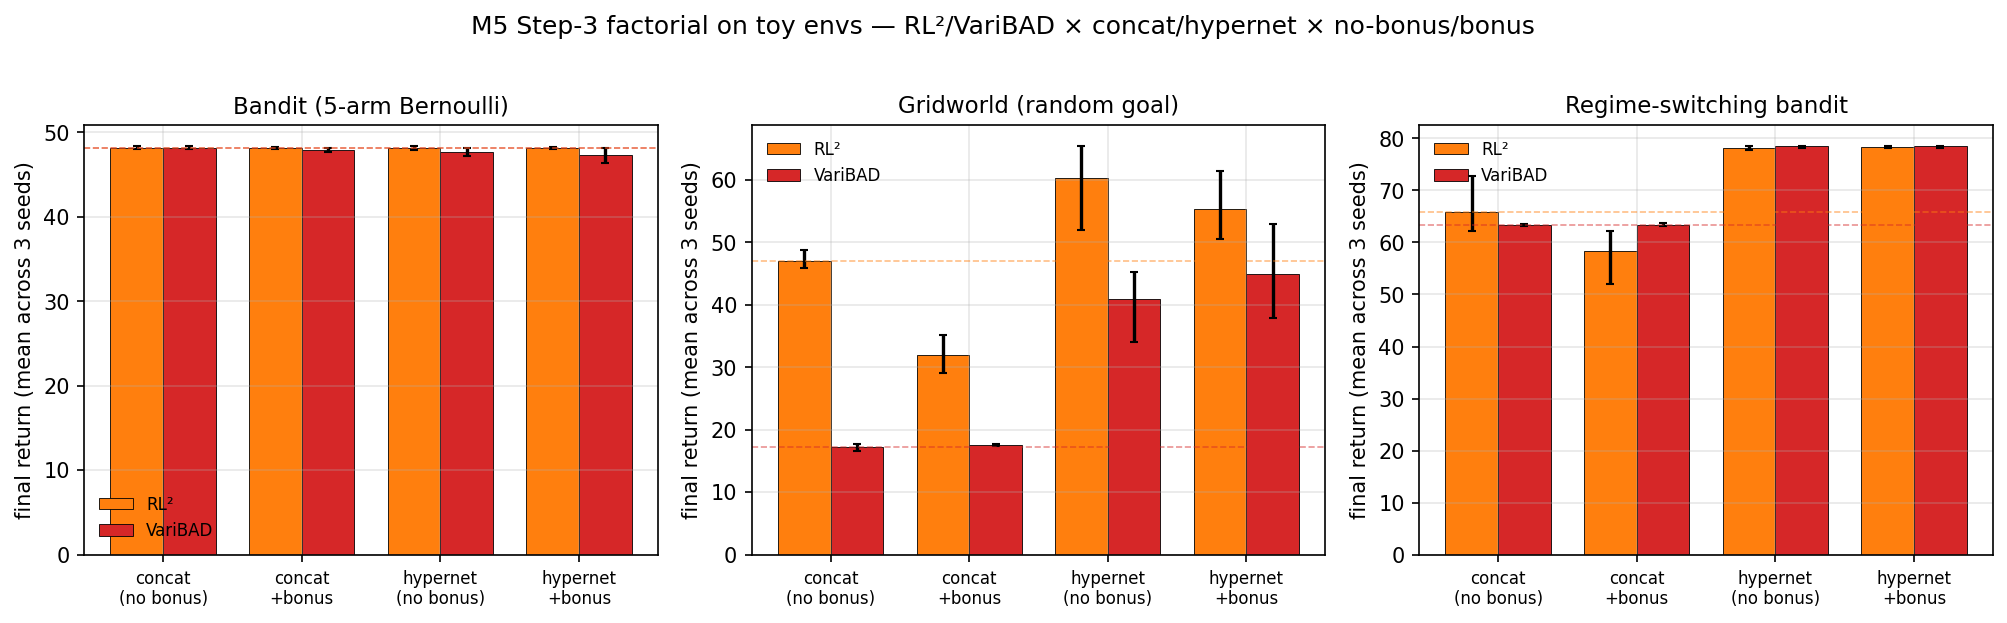
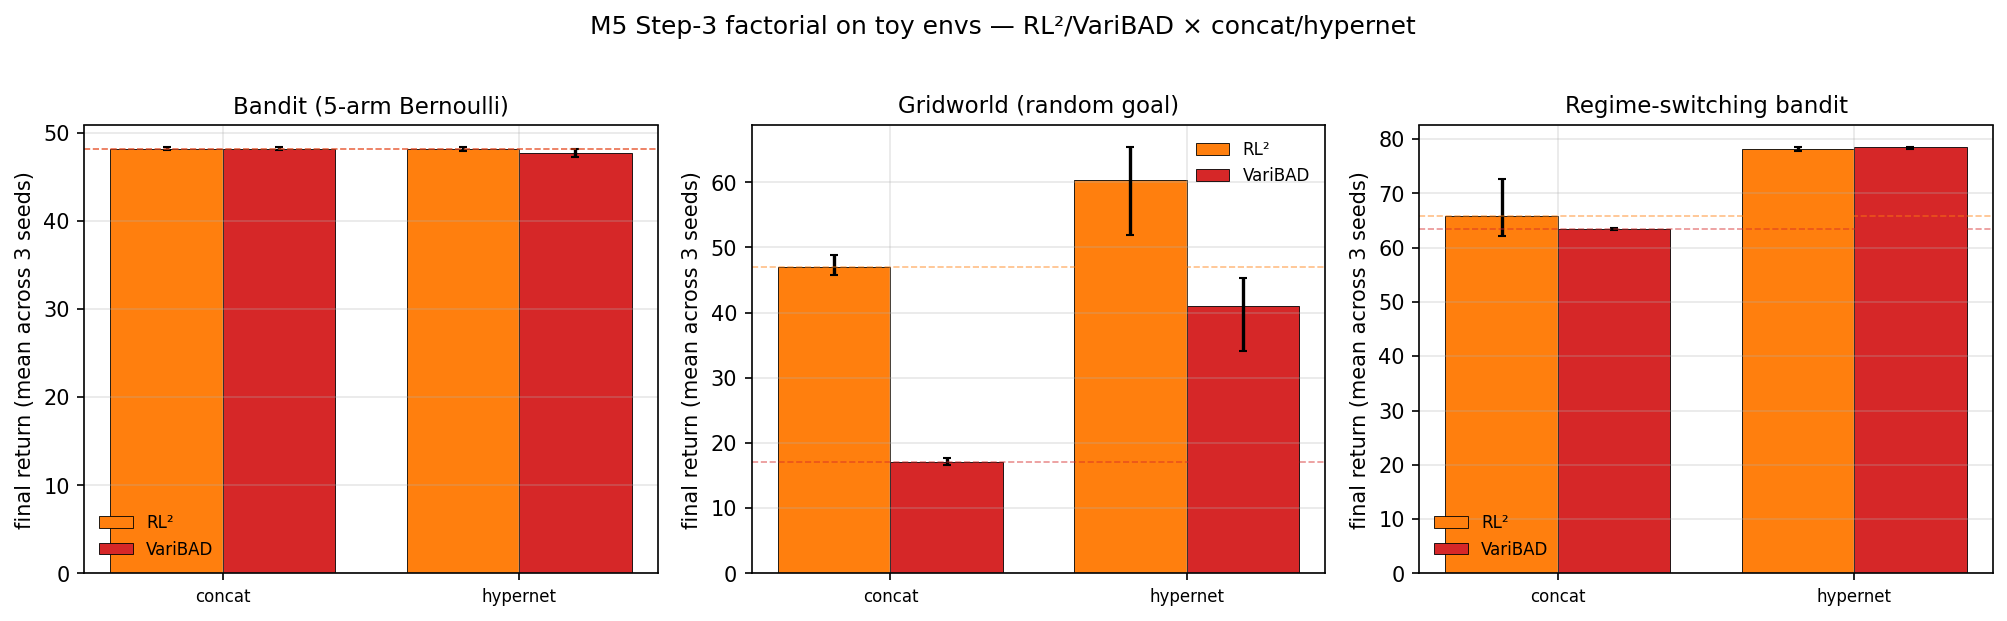
M5: remove exploration_bonus axis (skipped from RQ2 factorial)
Decision: drop the exploration_bonus ablation axis from the M5 ladder.
The toy factorial showed bonus@coef=0.1 hurt RL² and was inert on
VariBAD due to miscalibration; rather than spend compute tuning the
coefficient on a structured toy, the M5 factorial now reduces to the
2-axis grid (RL²/VariBAD × concat/hypernet) which is enough to answer
RQ2's main integration question.

Removed:
  - agents/modules/exploration_bonus.py
  - bonus fields (exploration_bonus, _coef, _window) on RL2Agent and
    VariBADAgent. belief_key kept — used by the posterior-quality probe.
  - bonus-computation branch in training/train.py:_make_iter_step.
  - 4 bonus-related smoke configs:
    m5_factorial_smoke_{rl2,varibad}_{bonus,both}.yaml
  - Orphan figures/m5/ directory (replaced by figures/milestones/M5/).

Updated:
  - scripts/m5_factorial_toys.py — VARIANTS reduced to 2 (concat, hypernet);
    12 runs instead of 24 if re-run fresh.
  - plotting/m5_plots.py:plot_factorial_toys — _VARIANT_ORDER reduced to
    no-bonus only; backward-compatible with existing 24-config JSON
    (bonus rows are ignored). Title updated.

Existing on-disk data:
  - results/m5_factorial_*_bonus/ result directories preserved on disk
    for audit (the experiments did run); not regenerated, not plotted.
  - stats_M5_factorial_toys.json keeps all 24 rows; plot reads only the
    8 no-bonus rows (4 method×env × 2 integration variants).

Note: docs/research-questions.md and docs/implementation.md still
[…]

diff --git a/scripts/m5_factorial_toys.py b/scripts/m5_factorial_toys.py
@@ -1,14 +1,14 @@
-"""M5 factorial toys: 8 variants × 3 toy envs = 24 runs.
+"""M5 factorial toys: 4 variants × 3 toy envs = 12 runs.
 
-Tests the full 2×2×2 ablation factorial — (rl2, varibad) × (concat, hypernet)
-× (no_bonus, bonus) — on the M4 toy environments (bandit, gridworld,
-regime_bandit). Templates from `experiments/configs/m4_<method>_<env>.yaml`
-provide budgets and env settings; orchestrator applies the variant overrides
-to `agent.params` and renames `experiment_name`.
+Tests the integration ablation — (rl2, varibad) × (concat, hypernet) — on
+the M4 toy environments (bandit, gridworld, regime_bandit). Templates from
+`experiments/configs/m4_<method>_<env>.yaml` provide budgets and env
+settings; orchestrator applies the integration override to `agent.params`
+and renames `experiment_name`.
 
 Pass criterion: variants should perform at parity-or-better with the M4
-baseline (concat, no_bonus). A regression vs M4 baseline indicates a wiring
-bug; gains indicate the addon is genuinely helpful on toys.
+baseline (concat). A regression indicates a wiring bug; gains indicate
+the integration addon is genuinely helpful on toys.
 
 Usage:
   uv run python -m scripts.m5_factorial_toys
@@ -35,11 +35,9 @@ CONFIG_ROOT = REPO_ROOT / "experiments" / "configs"
 METHODS = ["rl2", "varibad"]
 ENVS = ["bandit", "gridworld", "regime_bandit"]
 VARIANTS = [
-    # (integration, exploration_bonus, label)
-    ("concat",   False, "concat_nobonus"),
-    ("concat",   True,  "concat_bonus"),
-    ("hypernet", False, "hypernet_nobonus"),
-    ("hypernet", True,  "hypernet_bonus"),
+    # (integration, label)
+    ("concat",   "concat_nobonus"),
+    ("hypernet", "hypernet_nobonus"),
 ]
 
 
@@ -53,16 +51,14 @@ def _bootstrap_ci(values: list[float], n_boot: int = 10_000) -> tuple[float, flo
     return float(np.percentile(boot_means, 2.5)), float(np.percentile(boot_means, 97.5))
 
 
-def _build_factorial_config(method: str, env: str, integration: str, bonus: bool):
-    """Load m4_<method>_<env>.yaml as template, override variant fields."""
+def _build_factorial_config(method: str, env: str, integration: str):
+    """Load m4_<method>_<env>.yaml as template, override integration."""
     template_path = CONFIG_ROOT / f"m4_{method}_{env}.yaml"
     cfg = load_config(template_path)
     apply_run_mode(cfg, "full")
-    label = f"{integration}_{'bonus' if bonus else 'nobonus'}"
-    cfg.experiment_name = f"m5_factorial_{method}_{env}_{label}"
+    cfg.experiment_name = f"m5_factorial_{method}_{env}_{integration}_nobonus"
     cfg.agent.params = copy.deepcopy(cfg.agent.params)
     cfg.agent.params["integration"] = integration
-    cfg.agent.params["exploration_bonus"] = bonus
     return cfg
 
 
@@ -87,11 +83,11 @@ def main() -> int:
     stats_path = out_dir / "stats_M5_factorial_toys.json"
     summary_path = out_dir / "stats_M5_factorial_toys_run.json"
 
-    runs: list[tuple[str, str, str, bool, str]] = [
-        (method, env, integ, bonus, f"m5_factorial_{method}_{env}_{integ}_{'bonus' if bonus else 'nobonus'}")
+    runs: list[tuple[str, str, str, str]] = [
+        (method, env, integ, f"m5_factorial_{method}_{env}_{integ}_nobonus")
         for method in METHODS
         for env in ENVS
-        for integ, bonus, _ in VARIANTS
+        for integ, _ in VARIANTS
     ]
     n = len(runs)
     print(f"[m5_factorial_toys] start: {n} runs at full M4 budget", flush=True)
@@ -100,14 +96,13 @@ def main() -> int:
     config_results: list[dict[str, Any]] = []
     failed: list[str] = []
 
-    for i, (method, env, integration, bonus, label) in enumerate(runs, start=1):
+    for i, (method, env, integration, label) in enumerate(runs, start=1):
         print(
-            f"[m5_factorial_toys] ({i}/{n}) {method} on {env}: integration={integration} "
-            f"exploration_bonus={bonus}",
+            f"[m5_factorial_toys] ({i}/{n}) {method} on {env}: integration={integration}",
             flush=True,
         )
         try:
-            cfg = _build_factorial_config(method, env, integration, bonus)
+            cfg = _build_factorial_config(method, env, integration)
         except Exception as e:
             print(f"[m5_factorial_toys] ({i}/{n}) {label} CONFIG FAILED: {e}", flush=True)
             failed.append(label)
@@ -134,7 +129,6 @@ def main() -> int:
             "method": method,
             "env": env,
             "integration": integration,
-            "exploration_bonus": bonus,
             "experiment_name": cfg.experiment_name,
             "final_return_mean": mean,
             "final_return_ci95": [ci_lo, ci_hi],
@@ -188,8 +182,8 @@ def main() -> int:
         "methods": METHODS,
         "envs": ENVS,
         "variants": [
-            {"integration": iv, "exploration_bonus": bv, "label": lv}
-            for iv, bv, lv in VARIANTS
+            {"integration": iv, "label": lv}
+            for iv, lv in VARIANTS
         ],
         "configs": config_results,
         "summary_per_method_env": summary_blocks,

diff --git a/training/train.py b/training/train.py
@@ -25,7 +25,6 @@ import jax.numpy as jnp
 import numpy as np
 
 from agents.dummy import DummyAgent
-from agents.modules.exploration_bonus import compute_exploration_bonus_batch
 from agents.ppo import PPOAgent
 from agents.ppo_belief import PPOBeliefAgent
 from agents.ppo_oracle import PPOOracleAgent
@@ -151,16 +150,6 @@ def _make_iter_step(env, agent, parallel_envs: int, rollout_length: int) -> Call
     boundaries; their `update` consumes `init_carry` / `final_carry` for BPTT.
     """
     if getattr(agent, "is_recurrent", False):
-        # Exploration bonus is a static (compile-time) toggle: when enabled,
-        # the agent exposes belief_key / coef / window. The bonus is added
-        # to the rollout's task reward before update (and before GAE in
-        # update). `mean_return` is reported on the *task* reward only, so
-        # the bonus doesn't inflate the headline learning curve.
-        has_bonus = getattr(agent, "exploration_bonus", False)
-        bonus_key = getattr(agent, "belief_key", None)
-        bonus_coef = float(getattr(agent, "exploration_bonus_coef", 0.0))
-        bonus_window = int(getattr(agent, "exploration_bonus_window", 0))
-
         @jax.jit
         def step(agent_state, key):
             rollout_key, key = jax.random.split(key)
@@ -169,24 +158,15 @@ def _make_iter_step(env, agent, parallel_envs: int, rollout_length: int) -> Call
                 env, agent, agent_state, initial_carry, rollout_key,
                 parallel_envs=parallel_envs, rollout_length=rollout_length,
             )
-            task_reward = traj["reward"]
-            if has_bonus:
-                belief_traj = traj[bonus_key]  # [T, N, D]
-                bonus = compute_exploration_bonus_batch(
-                    belief_traj, coef=bonus_coef, window_K=bonus_window,
-                )  # [T, N]
-                traj = {**traj, "reward": task_reward + bonus}
             new_state, update_metrics = agent.update(
                 agent_state, traj, final_obs, init_carry, final_carry
             )
-            per_env_return = task_reward.sum(axis=0)
+            per_env_return = traj["reward"].sum(axis=0)
             metrics = {
                 **update_metrics,
                 "mean_return": per_env_return.mean(),
                 "var_return": per_env_return.var(),
             }
-            if has_bonus:
-                metrics["exploration_bonus/mean_bonus"] = bonus.mean()
             return new_state, key, metrics
         return step
 

diff --git a/plotting/m5_plots.py b/plotting/m5_plots.py
@@ -122,12 +122,10 @@ _TOY_ENV_LABELS = {
     "gridworld": "Gridworld (random goal)",
     "regime_bandit": "Regime-switching bandit",
 }
-_VARIANT_ORDER = ("concat_nobonus", "concat_bonus", "hypernet_nobonus", "hypernet_bonus")
+_VARIANT_ORDER = ("concat_nobonus", "hypernet_nobonus")
 _VARIANT_LABELS = {
-    "concat_nobonus": "concat\n(no bonus)",
-    "concat_bonus": "concat\n+bonus",
-    "hypernet_nobonus": "hypernet\n(no bonus)",
-    "hypernet_bonus": "hypernet\n+bonus",
+    "concat_nobonus": "concat",
+    "hypernet_nobonus": "hypernet",
 }
 
 
@@ -139,10 +137,13 @@ def plot_factorial_toys(out_path: Path) -> bool:
     with open(stats_path) as f:
         stats = json.load(f)
 
-    # Re-index configs by (method, env, variant_label).
+    # Re-index configs by (method, env, variant_label). Tolerate older
+    # JSONs that carry an `exploration_bonus` field; bonus configs are
+    # ignored by the plot regardless (only `*_nobonus` variants are read).
     by_key: dict[tuple[str, str, str], dict[str, Any]] = {}
     for r in stats["configs"]:
-        variant = f"{r['integration']}_{'bonus' if r['exploration_bonus'] else 'nobonus'}"
+        bonus = r.get("exploration_bonus", False)
+        variant = f"{r['integration']}_{'bonus' if bonus else 'nobonus'}"
         by_key[(r["method"], r["env"], variant)] = r
 
     apply_style()
@@ -197,7 +198,7 @@ def plot_factorial_toys(out_path: Path) -> bool:
         ax.legend(loc="best", fontsize=8)
 
     fig.suptitle(
-        "M5 Step-3 factorial on toy envs — RL²/VariBAD × concat/hypernet × no-bonus/bonus",
+        "M5 Step-3 factorial on toy envs — RL²/VariBAD × concat/hypernet",
         y=1.02,
     )
     fig.tight_layout()

diff --git a/agents/varibad.py b/agents/varibad.py
@@ -149,21 +149,19 @@ class VariBADAgent:
     epochs: int = 4
     minibatch_envs: int = 32
     reward_decoder: str = "bernoulli"  # {"bernoulli", "gaussian"}
-    # Ablation axis 1: integration mechanism. "concat" = MLP([obs,μ,σ])→logits;
+    # Integration mechanism: "concat" = MLP([obs,μ,σ])→logits;
     # "hypernet" = belief=[μ,σ] generates target-MLP weights, target maps obs→logits.
     integration: str = "concat"
     hypernet_target_hidden: int = 16
     hypernet_hidden: int = 64
-    # Ablation axis 2: exploration bonus. Bonus is L2 novelty on posterior μ.
-    exploration_bonus: bool = False
-    exploration_bonus_coef: float = 0.1
-    exploration_bonus_window: int = 16
 
     requires_regime_label: bool = False
     requires_analytical_posterior: bool = False
     is_recurrent: bool = True
     produces_belief_for_eval: bool = False
-    # Trajectory key carrying this method's belief vector (for exploration bonus).
+    # Trajectory key carrying this method's belief vector. Used by the
+    # posterior-quality probe (evaluation/posterior_probe.py) to identify
+    # the agent's internal belief representation.
     belief_key: str = "mu"
 
     # ---- factories ------------------------------------------------------

diff --git a/agents/rl2.py b/agents/rl2.py
@@ -89,21 +89,19 @@ class RL2Agent:
     lam: float = 0.95
     epochs: int = 4
     minibatch_envs: int = 32
-    # Ablation axis 1: integration mechanism. "concat" = Dense(hidden)→logits;
+    # Integration mechanism: "concat" = Dense(hidden)→logits;
     # "hypernet" = GRU hidden generates target-MLP weights, target maps obs→logits.
     integration: str = "concat"
     hypernet_target_hidden: int = 16
     hypernet_hidden: int = 64
-    # Ablation axis 2: exploration bonus. Bonus is L2 novelty on GRU hidden.
-    exploration_bonus: bool = False
-    exploration_bonus_coef: float = 0.1
-    exploration_bonus_window: int = 16
 
     requires_regime_label: bool = False
     requires_analytical_posterior: bool = False
     is_recurrent: bool = True
     produces_belief_for_eval: bool = False
-    # Trajectory key carrying this method's belief vector (for exploration bonus).
+    # Trajectory key carrying this method's belief vector. Used by the
+    # posterior-quality probe (evaluation/posterior_probe.py) to identify
+    # the agent's internal belief representation.
     belief_key: str = "carry_in"
 
     # ---- model factory --------------------------------------------------
